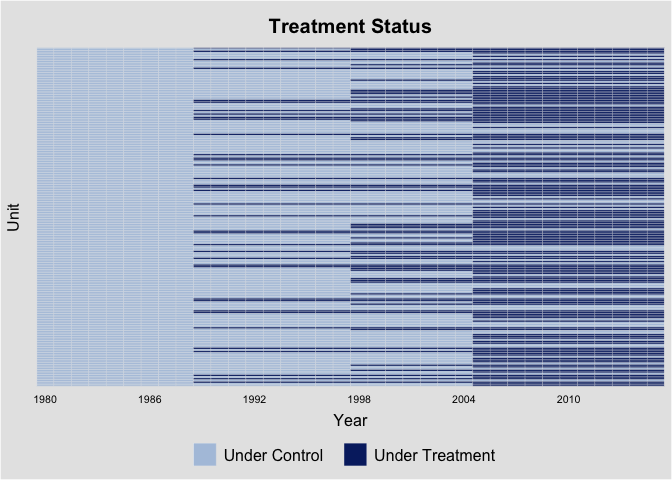
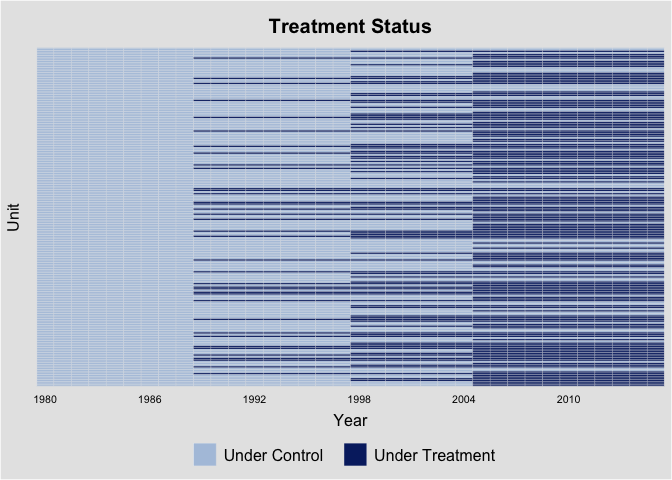
better colors

Changed region(s): [[0.2812, 0.0938, 1.0, 0.8125]]

diff --git a/ComparingDiD.md b/ComparingDiD.md
@@ -266,21 +266,21 @@ fect.res <- data %>%
     ## Criterion: Mean Squared Prediction Error
     ## Interactive fixed effects model...
     ## 
-    ##  r = 0; sigma2 = 0.25379; IC = -0.96213; PC = 0.24156; MSPE = 0.25526; GMSPE = 0.07352; Moment = 0.05304; MSPTATT = 0.00107; MSE = 0.24228*
-    ##  r = 1; sigma2 = 0.24502; IC = -0.59162; PC = 0.28905; MSPE = 0.29780; GMSPE = 0.07941; Moment = 0.06136; MSPTATT = 0.00098; MSE = 0.21752
-    ##  r = 2; sigma2 = 0.23688; IC = -0.22324; PC = 0.33351; MSPE = 0.38568; GMSPE = 0.08943; Moment = 0.06746; MSPTATT = 0.00084; MSE = 0.19708
-    ##  r = 3; sigma2 = 0.22810; IC = 0.13767; PC = 0.37331; MSPE = 0.45284; GMSPE = 0.10282; Moment = 0.07386; MSPTATT = 0.00078; MSE = 0.17498
-    ##  r = 4; sigma2 = 0.22079; IC = 0.50028; PC = 0.41191; MSPE = 0.48807; GMSPE = 0.11169; Moment = 0.09266; MSPTATT = 0.00074; MSE = 0.15660
-    ##  r = 5; sigma2 = 0.21440; IC = 0.86266; PC = 0.44921; MSPE = 0.54177; GMSPE = 0.13264; Moment = 0.09494; MSPTATT = 0.00057; MSE = 0.13846
+    ##  r = 0; sigma2 = 0.25562; IC = -0.94501; PC = 0.24296; MSPE = 0.27595; GMSPE = 0.07940; Moment = 0.03510; MSPTATT = 0.00146; MSE = 0.24187*
+    ##  r = 1; sigma2 = 0.24633; IC = -0.56651; PC = 0.29181; MSPE = 0.31349; GMSPE = 0.08811; Moment = 0.04520; MSPTATT = 0.00135; MSE = 0.21658
+    ##  r = 2; sigma2 = 0.23744; IC = -0.19132; PC = 0.33697; MSPE = 0.35219; GMSPE = 0.10183; Moment = 0.04165; MSPTATT = 0.00133; MSE = 0.19432
+    ##  r = 3; sigma2 = 0.22901; IC = 0.18089; PC = 0.37881; MSPE = 0.40692; GMSPE = 0.10884; Moment = 0.04471; MSPTATT = 0.00115; MSE = 0.17337
+    ##  r = 4; sigma2 = 0.22226; IC = 0.55577; PC = 0.41996; MSPE = 0.46563; GMSPE = 0.11739; Moment = 0.08365; MSPTATT = 0.00083; MSE = 0.15694
+    ##  r = 5; sigma2 = 0.21580; IC = 0.92754; PC = 0.45865; MSPE = 0.54282; GMSPE = 0.15005; Moment = 0.06657; MSPTATT = 0.00069; MSE = 0.14020
     ## 
     ##  r* = 0
     ## 
     ## Matrix completion method...
     ## 
-    ##  lambda.norm = 1.00000; MSPE = 0.25526; GMSPE = 0.07352; Moment = 0.05304; MSPTATT = 0.00107; MSE = 0.24228*
-    ##  lambda.norm = 0.42170; MSPE = 0.26323; GMSPE = 0.07527; Moment = 0.05627; MSPTATT = 0.00036; MSE = 0.08194
-    ##  lambda.norm = 0.17783; MSPE = 0.27379; GMSPE = 0.07779; Moment = 0.05590; MSPTATT = 0.00007; MSE = 0.01507
-    ##  lambda.norm = 0.07499; MSPE = 0.27120; GMSPE = 0.07630; Moment = 0.05564; MSPTATT = 0.00001; MSE = 0.00269
+    ##  lambda.norm = 1.00000; MSPE = 0.27595; GMSPE = 0.07940; Moment = 0.03510; MSPTATT = 0.00146; MSE = 0.24187*
+    ##  lambda.norm = 0.42170; MSPE = 0.28407; GMSPE = 0.08072; Moment = 0.03502; MSPTATT = 0.00041; MSE = 0.07690
+    ##  lambda.norm = 0.17783; MSPE = 0.28739; GMSPE = 0.08513; Moment = 0.03329; MSPTATT = 0.00008; MSE = 0.01419
+    ##  lambda.norm = 0.07499; MSPE = 0.28564; GMSPE = 0.08614; Moment = 0.03276; MSPTATT = 0.00001; MSE = 0.00253
     ## 
     ##  lambda.norm* = 1
     ## 
@@ -297,8 +297,8 @@ fect.res <- data %>%
     ## 
     ## ATT:
     ##                             ATT   S.E. CI.lower CI.upper p.value
-    ## Tr obs equally weighted   4.210 0.3410    3.541    4.878       0
-    ## Tr units equally weighted 3.073 0.2917    2.502    3.645       0
+    ## Tr obs equally weighted   4.174 0.3177    3.551    4.796       0
+    ## Tr units equally weighted 3.163 0.2734    2.627    3.699       0
 
 ``` r
 fect <- fect.res$est.att %>% 
@@ -319,7 +319,7 @@ plot <- coefs %>%
   geom_linerange(aes(x = t, ymin = conf.low, ymax = conf.high), position = position_dodge2(width = 0.75), size = 0.75) +
   geom_hline(yintercept = 0, linetype = "dashed", color = "red", size = .25, alpha = 0.75) + 
   geom_vline(xintercept = -0.5, linetype = "dashed", size = .25) +
-  scale_color_manual(name="Estimation Method", values= met.brewer("Hokusai1", 7, "discrete")) +
+  scale_color_manual(name="Estimation Method", values= met.brewer("Austria", 7, "discrete")) +
   theme_clean() + theme(legend.position= 'bottom') +
   labs(title = 'Event Time Estimates', y="ATT", x = "Relative Time") + 
   guides(col = guide_legend(nrow = 3)) 
